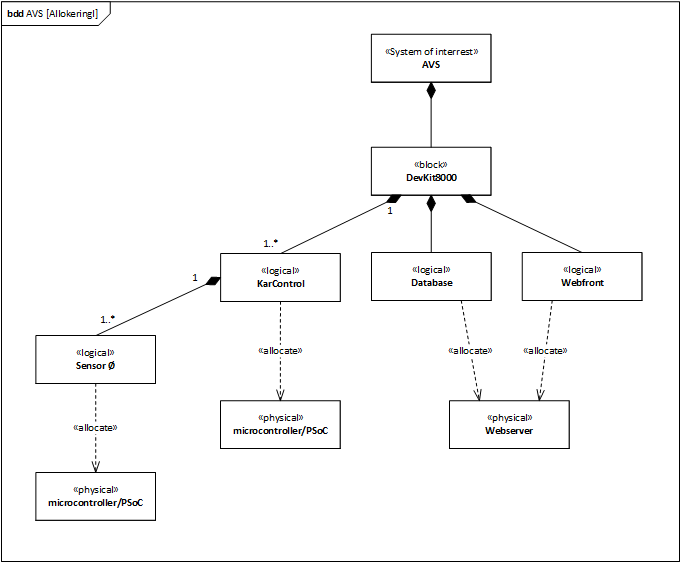
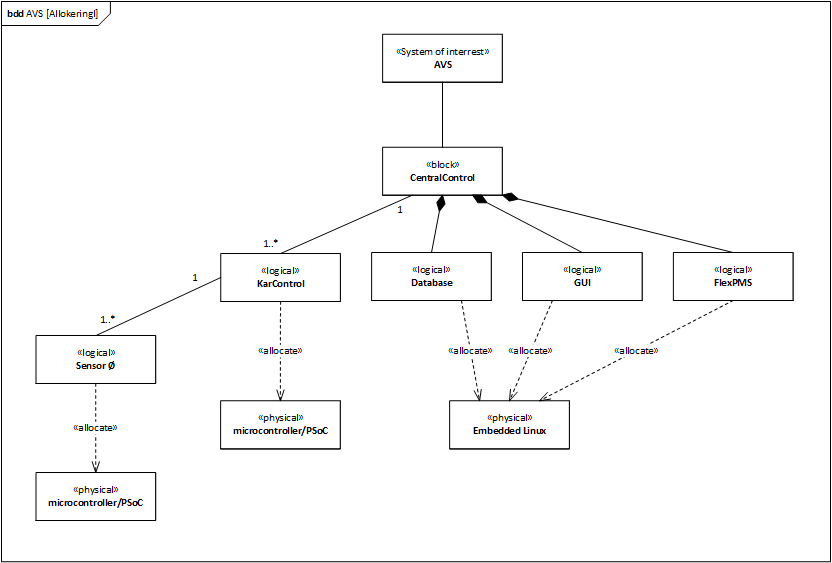
Travis CI

diff --git a/Glossary/glossary.tex b/Glossary/glossary.tex
@@ -20,15 +20,77 @@
 
 \newglossaryentry{sensor}{
 	name=sensor,
-	description={ samlet beskrivelse for diverse måleinstrumenter der kan tilsluttes}
+	description={ er en samlet generisk beskrivelse af måleinstrumenter, der kan tilsluttes en Sensor Ø}
 }
 
 \newglossaryentry{vandkar}{
-	name=vandkar,
-	description={ kasse på X x Y x Z}
+    name=vandkar,
+    description={ er en beholder, der kan indeholde gødningsmix }
+}
+
+\newglossaryentry{goedningsmix}{
+    name=gødningsmix,
+    description={ er en blanding af vand og gødning med en bestemt pH-værdi }
 }
 
 \newglossaryentry{gui}{
 	name=gui,
-	description={ Grafisk bruger grænseflade}
+	description={ er den grafiske brugergrænseflade}
 }
+
+\newglossaryentry{flexpms}{
+    name=FlexPMS,
+    description={ (Flexible Plant Management System) er den software, som binder brugergrænsefladen med den fysiske verdens}
+}
+
+\newglossaryentry{database}{
+    name=database,
+    description={ gemmer brugerens indstillinger samt log}
+}
+
+\newglossaryentry{centralcontrol}{
+    name=CentralControl,
+    description={ er systemets centrale computer}
+}
+
+\newglossaryentry{kargruppe}{
+    name=KarGruppe,
+    description={ er et vandkar med tilhørende styring og vanding}
+}
+
+\newglossaryentry{karcontrol}{
+    name=KarControl,
+    description={ er en lokal styring af et kar med vanding og blanding af gøsningsmix }
+}
+
+\newglossaryentry{rsconverter}{
+    name=RSConverter,
+    description={ et elektronisk print, som kan konvertere fra RS232 til RS485, og fra RS485 til RS232}
+}
+
+\newglossaryentry{ventilstyring}{
+    name=VentilStyring,
+    description={ en ventil, der kan åbnes og lukkes vha. et 5V-signal. Ventilen er tilsluttet 12V eller 24V }
+}
+
+\newglossaryentry{sensoroe}{
+    name=Sensor Ø,
+    description={ består af en controller samt en række sensorer, som måler fra et begrænset området }
+}
+
+\newglossaryentry{sensoroecontroller}{
+    name=Sensor Ø Control,
+    description={ er controlleren i en Sensor Ø }
+}
+
+\newglossaryentry{doseringsventil}{
+    name=doseringsventil,
+    description={ åbner og lukker for tilførslen af vand til en bestemt Sensor Ø }
+}
+
+\newglossaryentry{flowmaaler}{
+    name=flowmåler,
+    description={ måler mængden af vand som løber gennem denl}
+}
+
+

diff --git a/Systemarkitektur/KarControl/KarControl.tex b/Systemarkitektur/KarControl/KarControl.tex
@@ -11,7 +11,7 @@
 
 
 
-\subsection{System IBD}
+\subsection{KarControl IBD}
 
 \begin{figure}[H]
 	\centering
@@ -20,6 +20,43 @@
 	\caption{Internal Block Diagram af KarControl}
 \end{figure}
 
+\subsection{Signal beskrivelser}
+
+\begin{table}[H]
+\centering
+{\rowcolors{2}{white!80!black!30}{white!70!black!60} %farver på hver anden række -starter på 3
+\setlength{\arrayrulewidth}{0.2mm}					 %tykkelse på linier 
+\setlength{\tabcolsep}{10pt}						 %indryk i celle 
+\renewcommand{\arraystretch}{1.5}					 %højden på tabelrum
+\center
+\begin{tabular}{|p{20mm}|p{40mm}|p{30mm}|p{30mm}|}		 %længden på alle rum
+\hline
+
+\multicolumn{4}{|>{\columncolor{white!20!black!90}}m{14.20cm}|}{\textcolor{white}{\large{\textbf{Signal beskrivelser}}}} \\\hline
+\rowcolor{white!70!black!60}
+\textcolor{black}{\large{\textbf{Navn}}}&
+\textcolor{black}{\large{\textbf{Definition}}}&	
+\textcolor{black}{\large{\textbf{Område}}}&
+\textcolor{black}{\large{\textbf{Kommentar}}}\\
+\hline
+KarBus				& RS485 bus til kommunikation mellem enheder &	 	& Differentielt bussystem  \\
+OeBus				& RS485 bus til kommunikation mellem enheder &	 	& Differentielt bussystem  \\
+Data485				& RS485 bus til kommunikation mellem enheder &	 	& internt signal   \\
+UART232				& RS485 konverteret til logisk niveau		 &	 	& Signal efter konvertering  \\
+EnableIndløb		& Signal til at lukke vand ind i kar		 & 0-5V	& Signal til at styre magnetventil   \\
+EnableAfløb			& Signal til at lukke vand ud af kar		 & 0-5V	& Signal til at styre magnetventil	\\
+EnableVandpumpe		& Styre signal til pumpe			   	     & 0-5V & PWM styret signal	\\
+Puls				& Takt tæller af flow				   	 	 & 0-5V & 	\\
+pH					& Analog signal fra pH måler			 	 & fra -420 til 420 mV  & Analogt signal	\\
+indløb				& vandstyring i kar							 &    	& Til at lukke vand ind i kar	\\
+Afløb				& vandstyring i kar	 						 &   	& Til at lukke vand ud af kar	\\
+dossering			& vandstyring til planter					 &      & Til at dosere vand til planterne	\\
+\hline
+\end{tabular}
+}
+\caption{signal beskrivelser for KarControl}
+\label{table:SignalBeskrivelserKarControl}
+\end{table}
 
 
 \subsection{KarControl Allokeringsdiagram}

diff --git a/Systemarkitektur/System/System.tex b/Systemarkitektur/System/System.tex
@@ -22,7 +22,7 @@
 
 
 
-\subsection{Allokeringsdiagram IBD}
+\subsection{Allokeringsdiagram}
 
 \begin{figure}[H]
 	\centering
@@ -30,6 +30,8 @@
 	\label{fig:System BDD}
 	\caption{Allokeringsdiagram af AVS}
 \end{figure}
+
+
 
 
 

diff --git a/Systemarkitektur/Systemarkitektur.tex b/Systemarkitektur/Systemarkitektur.tex
@@ -49,7 +49,7 @@ Alle	& 0.1	 	& 17-03-2015  \\
 
 \section{pH-sensor diagrammer}
 
-%\input{Systemarkitektur/Sensor_pH/Sensor_pH}
+\input{Systemarkitektur/Sensor_pH/Sensor_pH}
 
 \newpage
 
